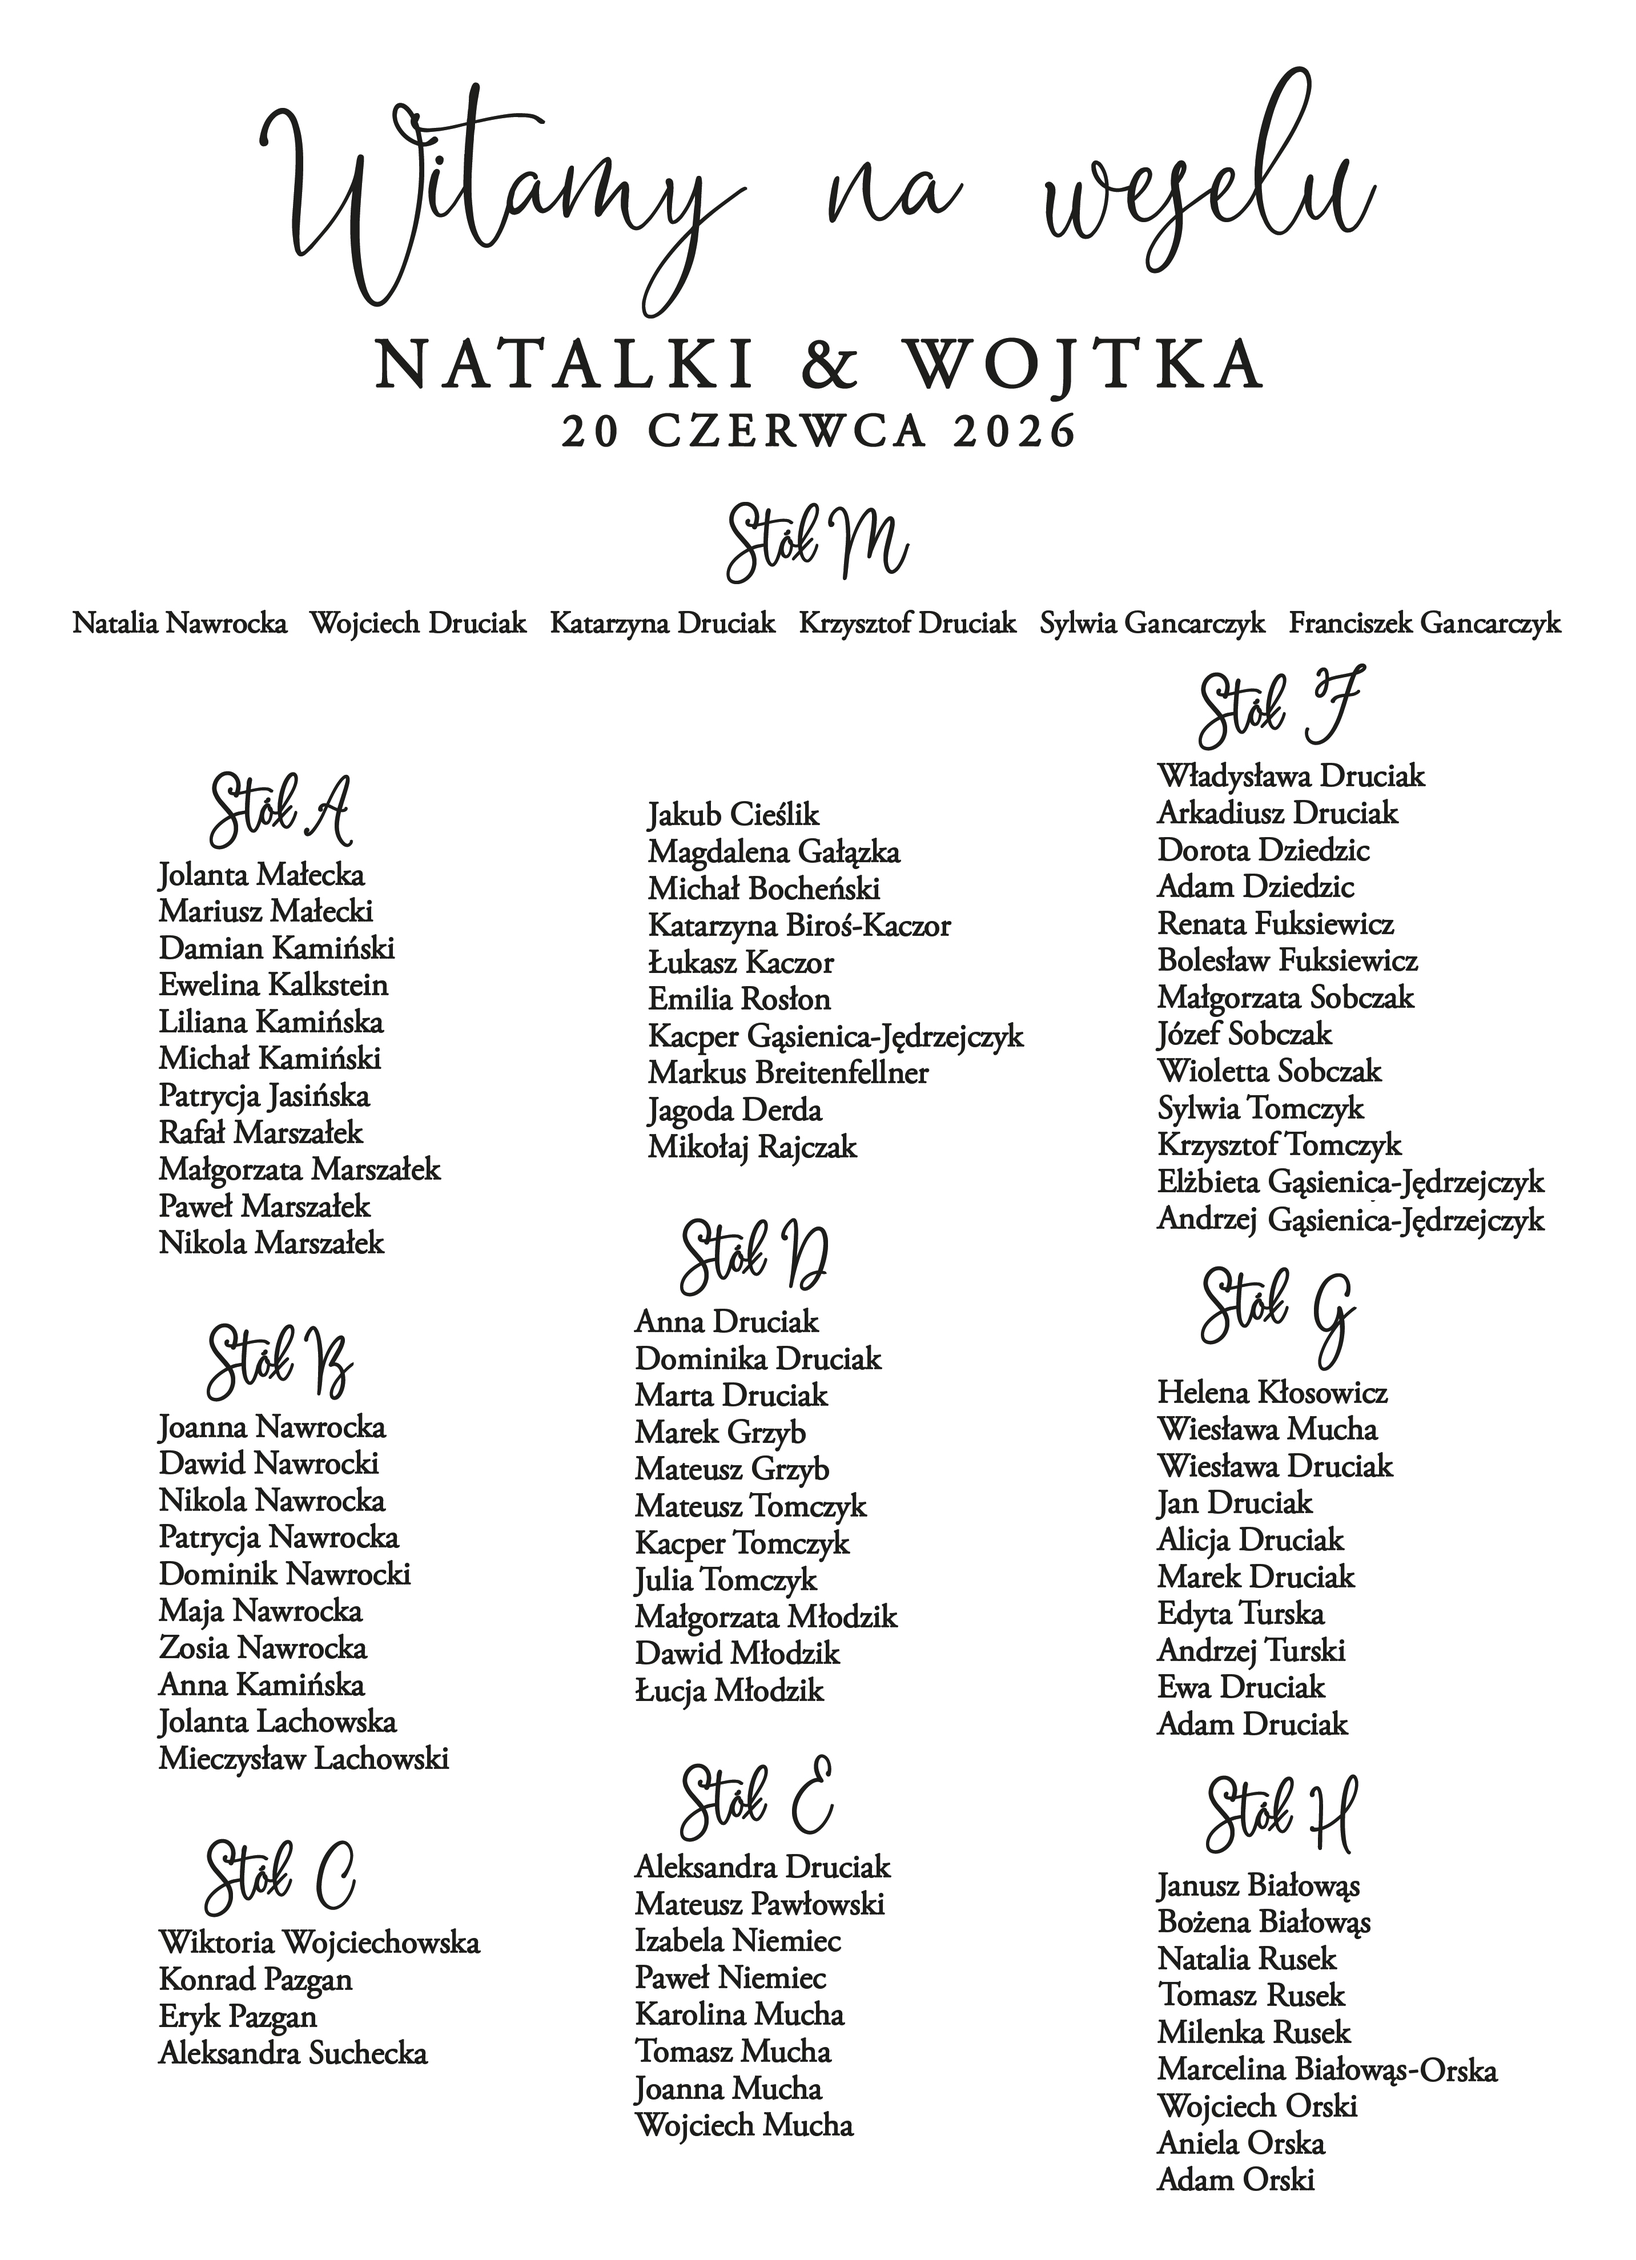
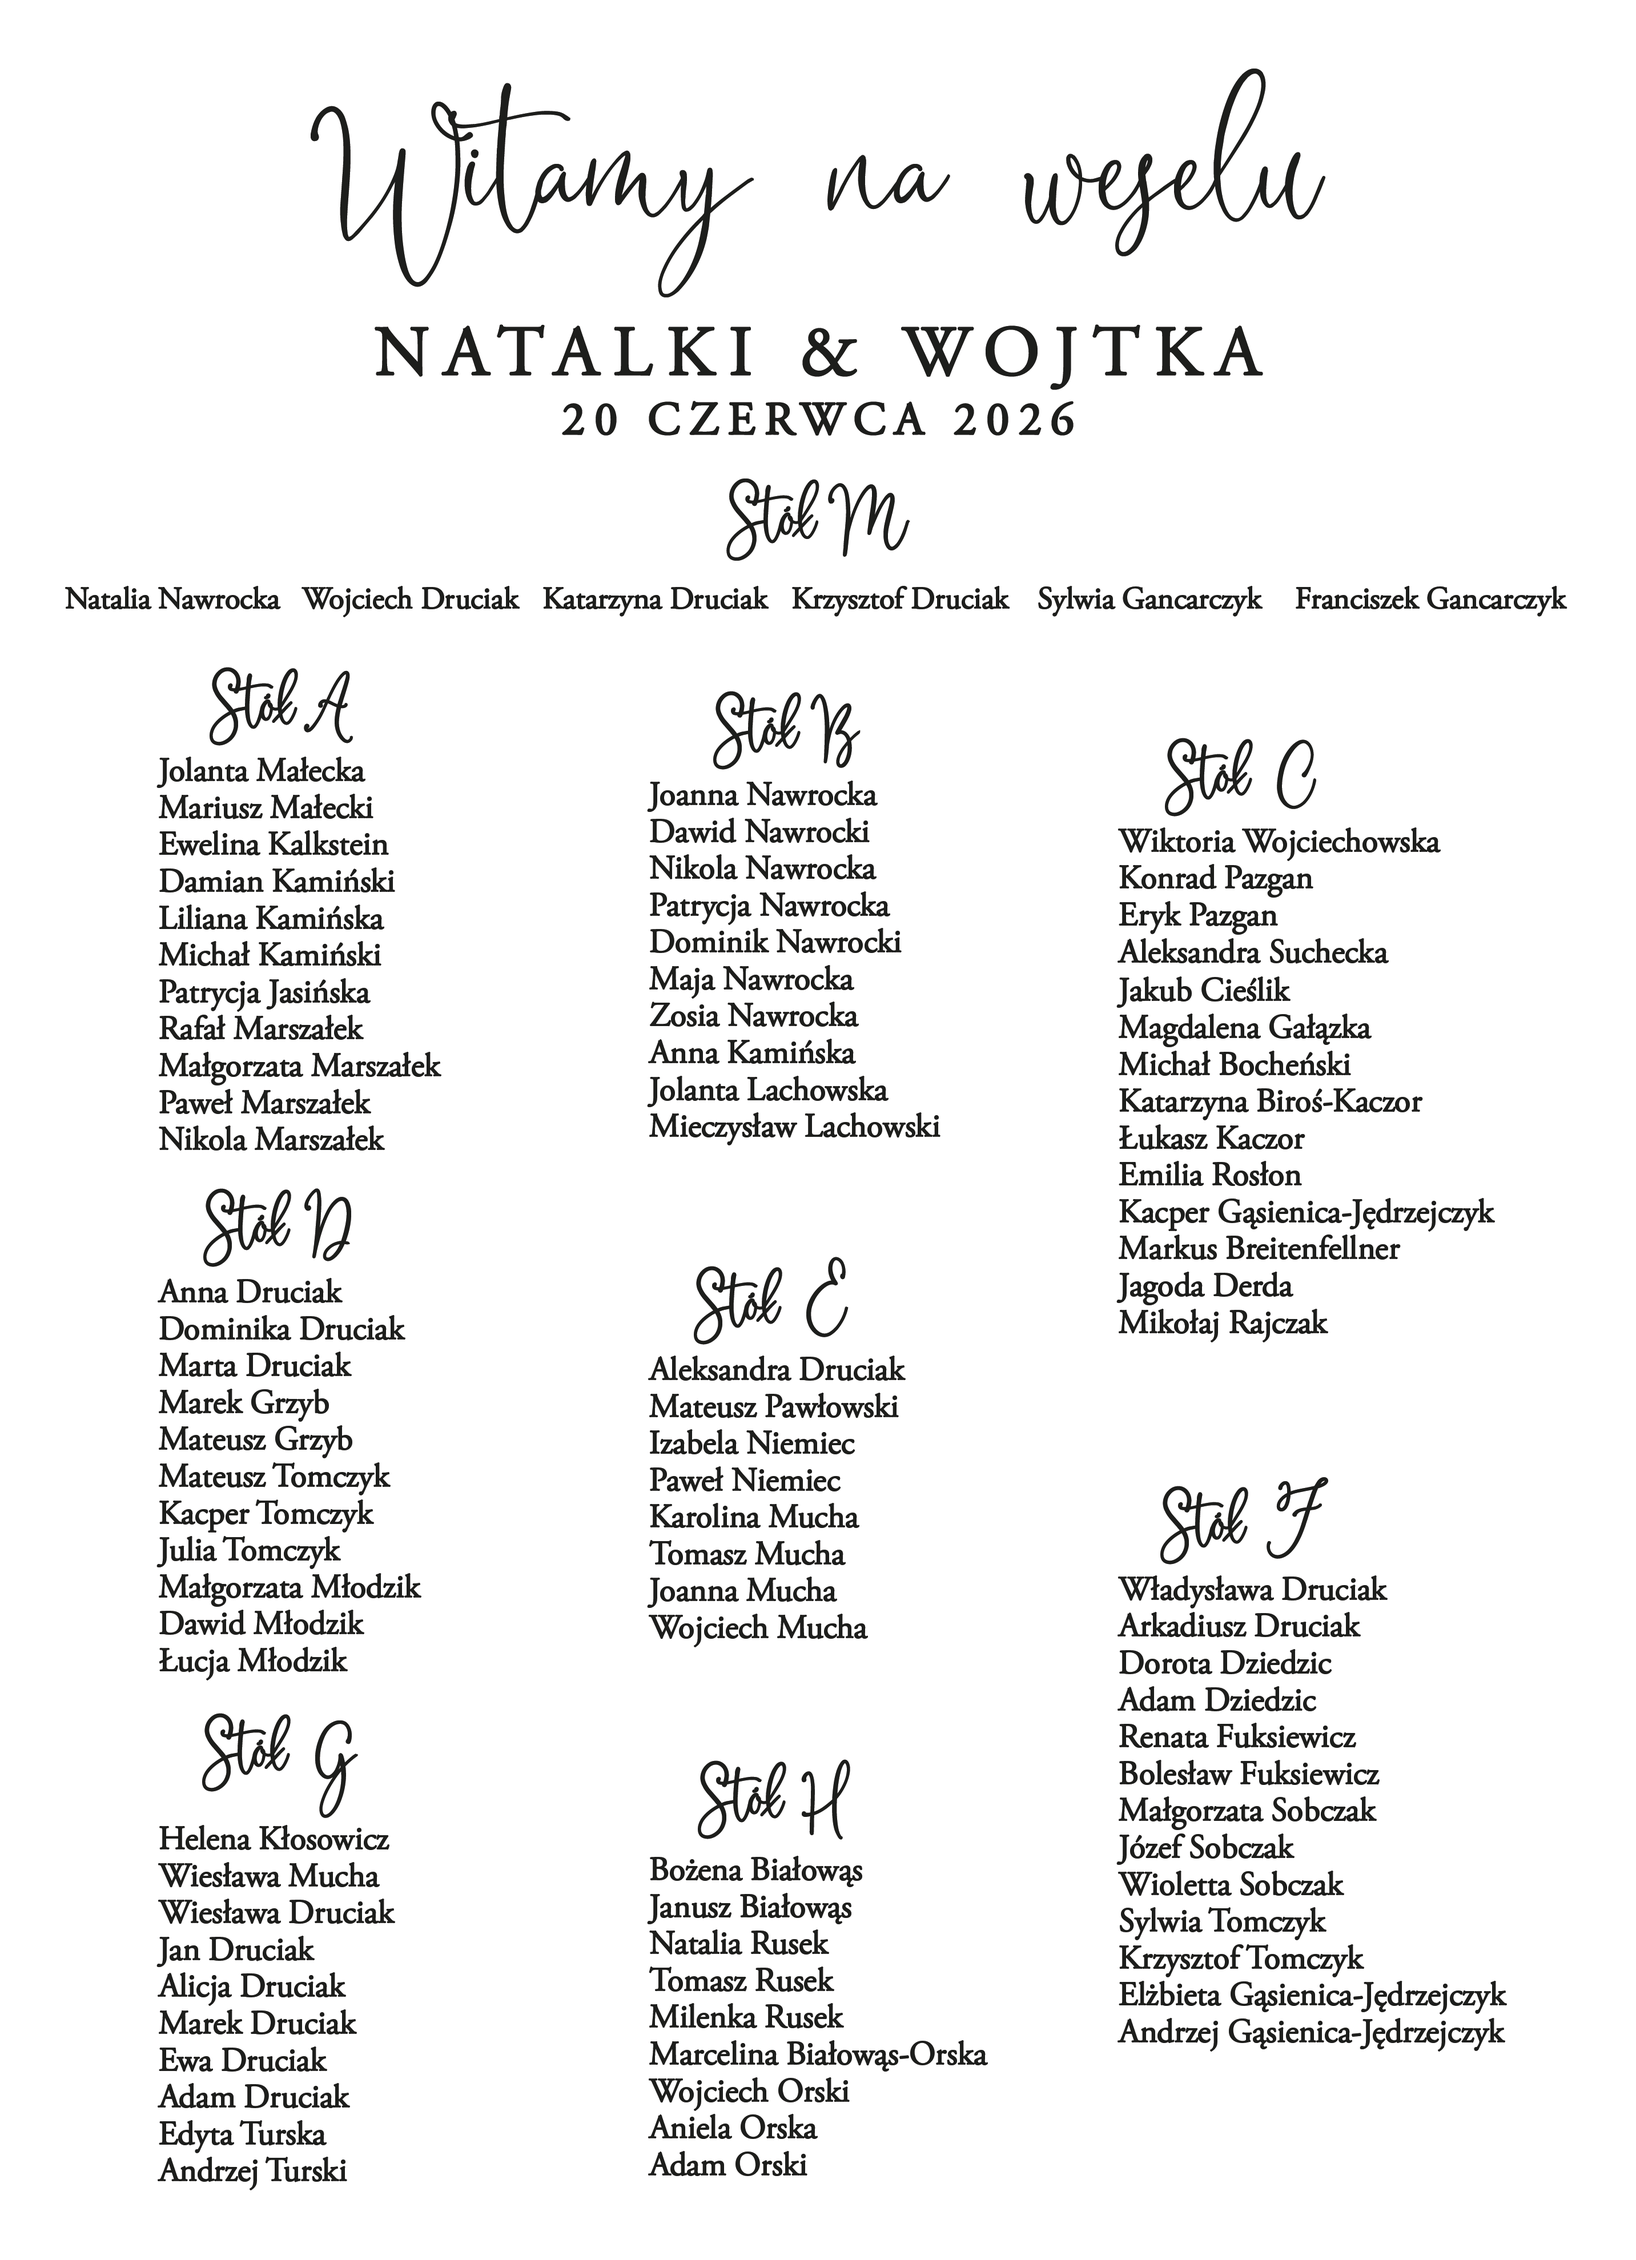
update table plan and add pictogram

Changed region(s): [[0.0311, 0.0311, 0.963, 0.9944], [0.3728, 0.3108, 0.6213, 0.9634], [0.497, 0.0622, 0.5902, 0.0932]]

diff --git a/index.html b/index.html
@@ -489,7 +489,14 @@
 
   <footer class="site-footer">
     <div class="site-footer__inner">
-      <p class="section__whisper">Gdybyście chcieli nas uhonorować drobnym gestem, najbardziej ucieszy nas skromna koperta — cicho zbieramy na budowę naszego pierwszego wspólnego domu.</p>
+      <div class="site-footer__icons" style="display: flex; justify-content: center; align-items: center; gap: 2em;">
+        <img src="images/home.png" alt="koperta zamiast prezentów" width="240" height="140" loading="lazy" style="vertical-align: middle; object-fit: contain;" />
+        <img src="images/wine.png" alt="wino zamiast kwiatów" width="130" height="78" loading="lazy" style="vertical-align: middle; object-fit: contain;" />
+      </div>
+      <p class="section__whisper">
+        Gdybyście chcieli nas uhonorować drobnym gestem, najbardziej ucieszy nas skromna koperta — cicho zbieramy na budowę naszego pierwszego wspólnego domu.<br>
+        <span style="font-size:0.97em;">Zamiast kwiatów, mile widziane będzie wino.</span>
+      </p>
       <p>Natalka <span class="amp">&amp;</span> Wojtek · 20.06.2026</p>
     </div>
     <div class="site-footer__meta" aria-label="Informacje o autorach">

diff --git a/css/style.css b/css/style.css
@@ -492,7 +492,7 @@ body:not(.is-envelope-active) main {
   text-align: center;
   color: var(--color-muted);
   max-width: 26rem;
-  margin: 2rem auto 0;
+  margin: 0 auto 0;
   line-height: 1.65;
   opacity: 0.92;
 }
